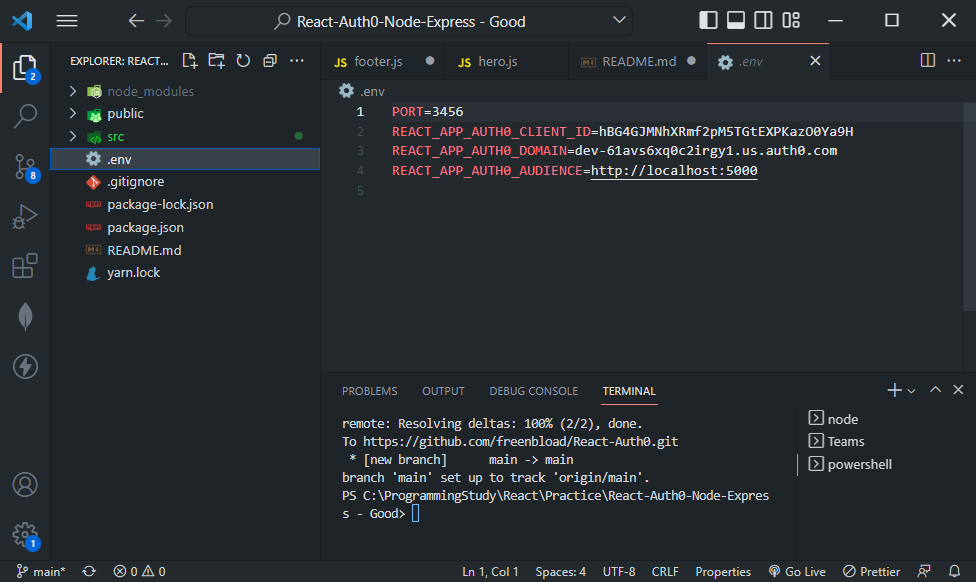
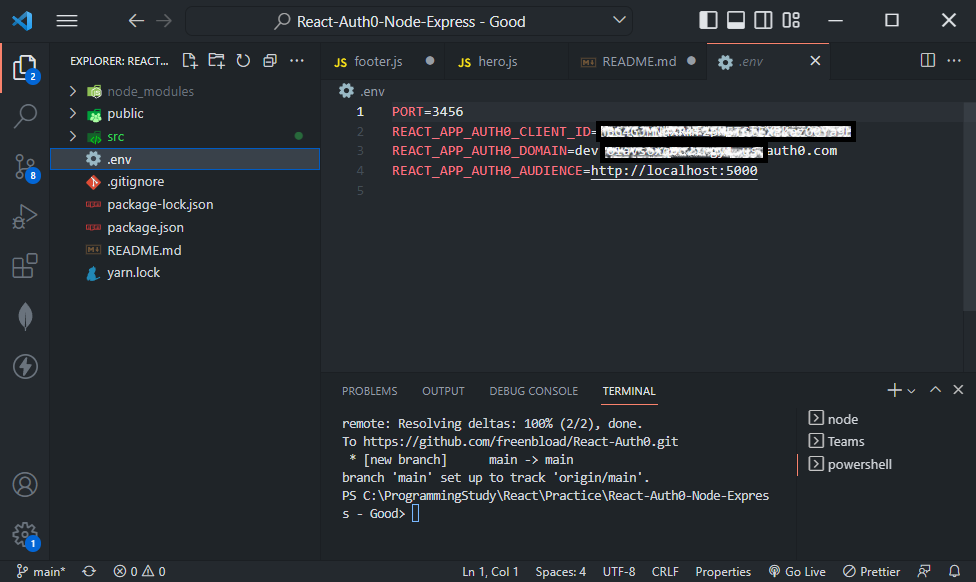
updated for document

Changed region(s): [[0.584, 0.1856, 0.8914, 0.2784]]

diff --git a/README.md b/README.md
@@ -21,19 +21,45 @@ This small application demonstrates authentication and RBAC for an SPA, using Au
 
 ![after logged in](src/assets/login.jpg)
 
+### Profile of a logged in user
+
+![profile logged in](src/assets/profile.jpg)
+
+### Public API for logged in user
+
+![Public API](src/assets/external_api01.png)
+
+### User role API for logged in user
+
+![User role API](src/assets/external_api02.png)
+
+### Admin role API for logged in user - rejected
+
+![Admin role API rejected](src/assets/external_api03.png)
+
+### Admin role API for logged in user - accepted
+
+![Admin role API accepted](src/assets/external_api04.png)
+
+### React .env configuration
+
+![React .env configuration](src/assets/env_react_app.png)
+
+### Server .env configuration
+
+![Server .env configuration](src/assets/env_server.png)
+
 ## Software
 
 Before proceeding, please ensure you have the following software installed on your computer.
 
 - Node
-- Yarn (optional but recommended)
 - Git command line tools
 
 ### Useful links
 
 - Download Git CLT - Windows: https://git-scm.com/download/windows Mac: https://git-scm.com/download/mac
 - Download Node - https://nodejs.org/en/
-- Download Yarn CLT - https://yarnpkg.com/lang/en/docs/install/
 - Download VSCode - https://code.visualstudio.com/
 
 ## Getting started
@@ -45,37 +71,37 @@ Please fork a copy of this repository. Forking a repository allows you to freely
 Clone the repo to your machine
 
 ```
-git clone <CloneURL>
-```
-
-### Lunch the backend
-
-1. Within terminal or cmd ensure you have navigated inside the 'Backend' directory and installed the dependencies
-
-```
-cd <../path/to/Backend>
-yarn install OR npm install
-```
-
-2. Run the start script
-
-```
-yarn run start OR npm run start
+git clone https://github.com/freenbload/React-Auth0.git
 ```
 
 ### Lunch the frontend
 
-1. Open a new terminal window and navigate inside the 'Frontend' folder as you will need to keep the backend running in the background
+1. Within terminal or cmd ensure you have navigated root directory of the source code you extracted and installed the dependencies
 
 ```
-cd <../path/to/Frontend>
-yarn install OR npm install
+npm install
 ```
 
 2. Run the start script
 
 ```
-yarn run start OR npm run start
+npm run start
 ```
 
-Your app should be running on: http://localhost:3000
+Your app should be running at: http://localhost:3456
+
+### Lunch the backend
+
+1. Open a new terminal window and navigate inside the 'src\server' folder as you will need to keep the backend running in the background
+
+```
+cd ./src/server
+```
+
+2. Run the server script
+
+```
+node server.js
+```
+
+Your server should be running at: http://localhost:5000
